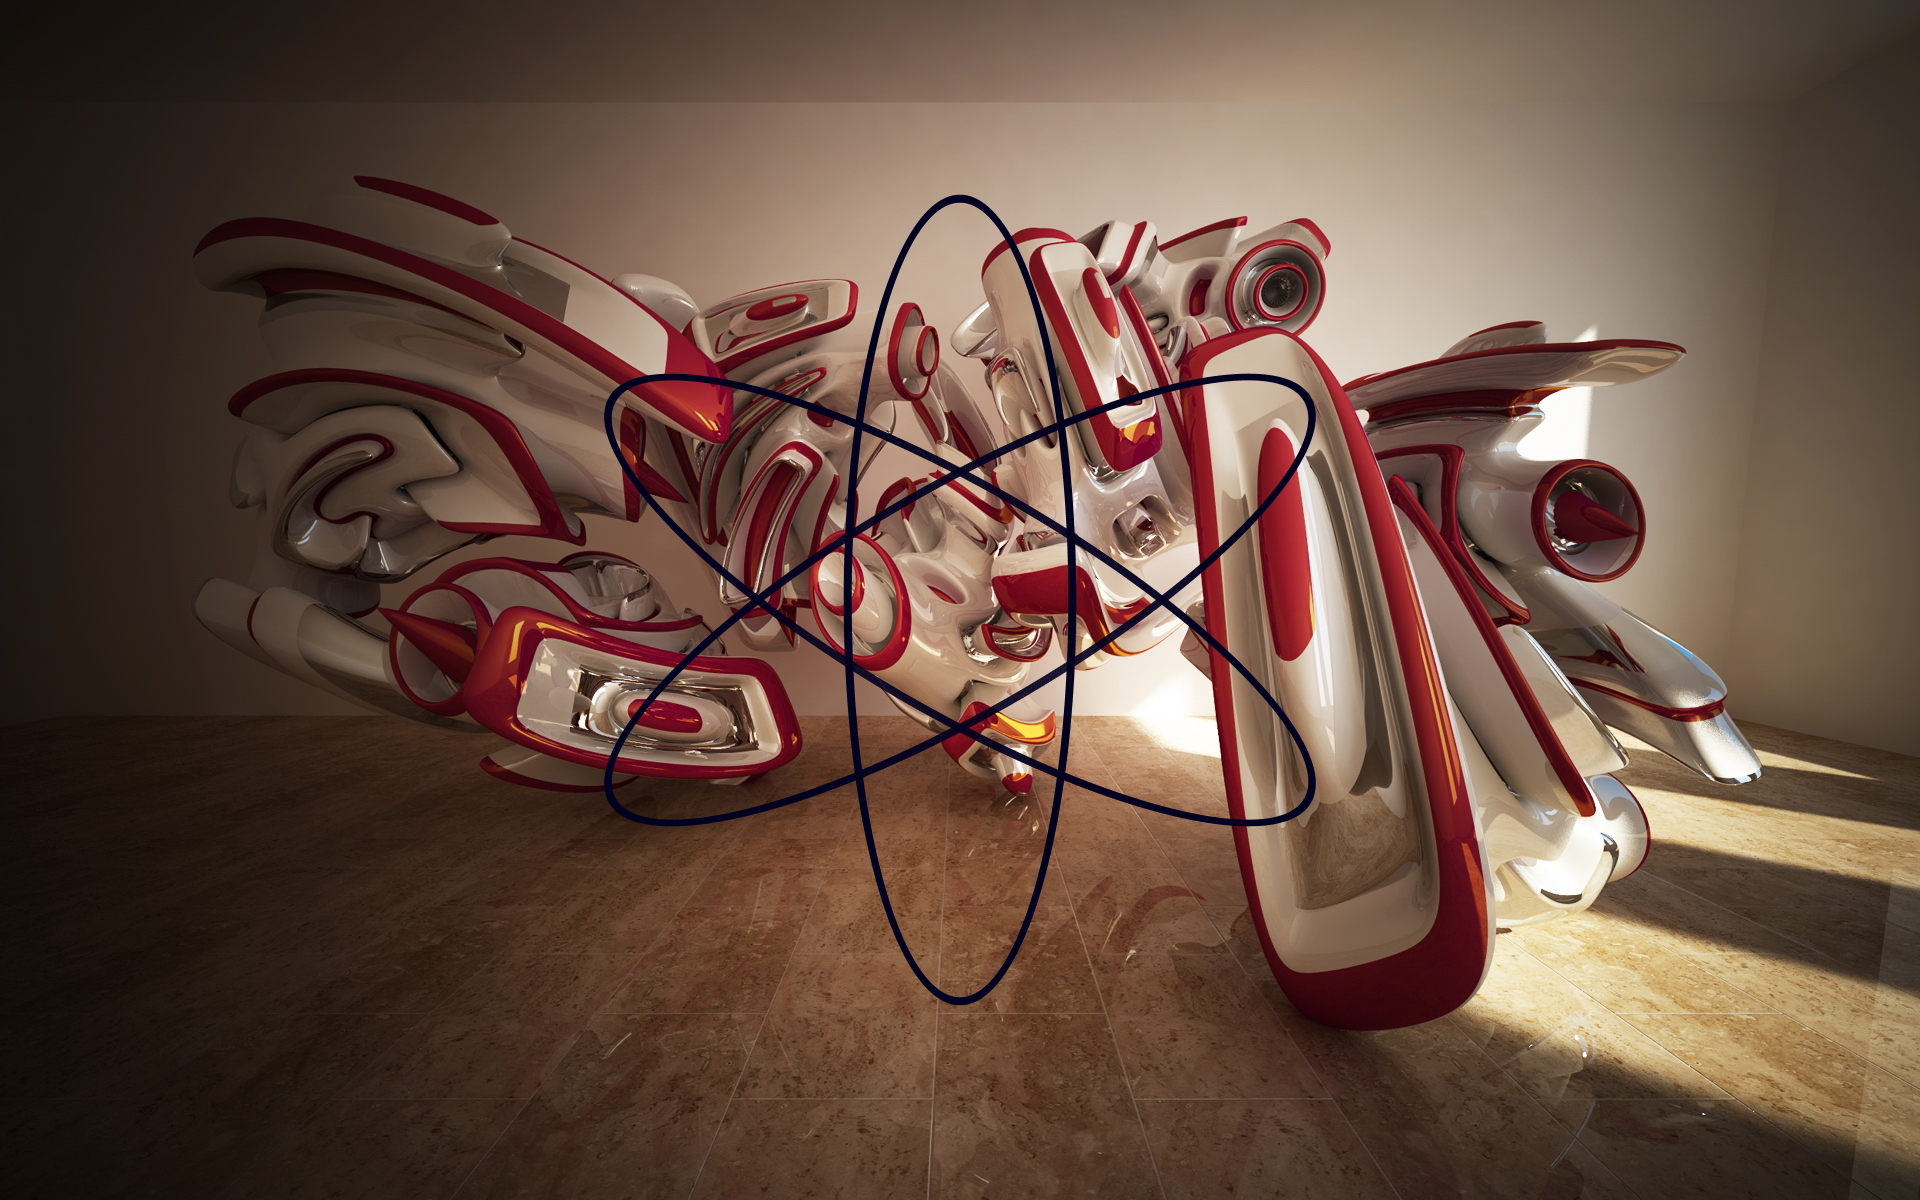
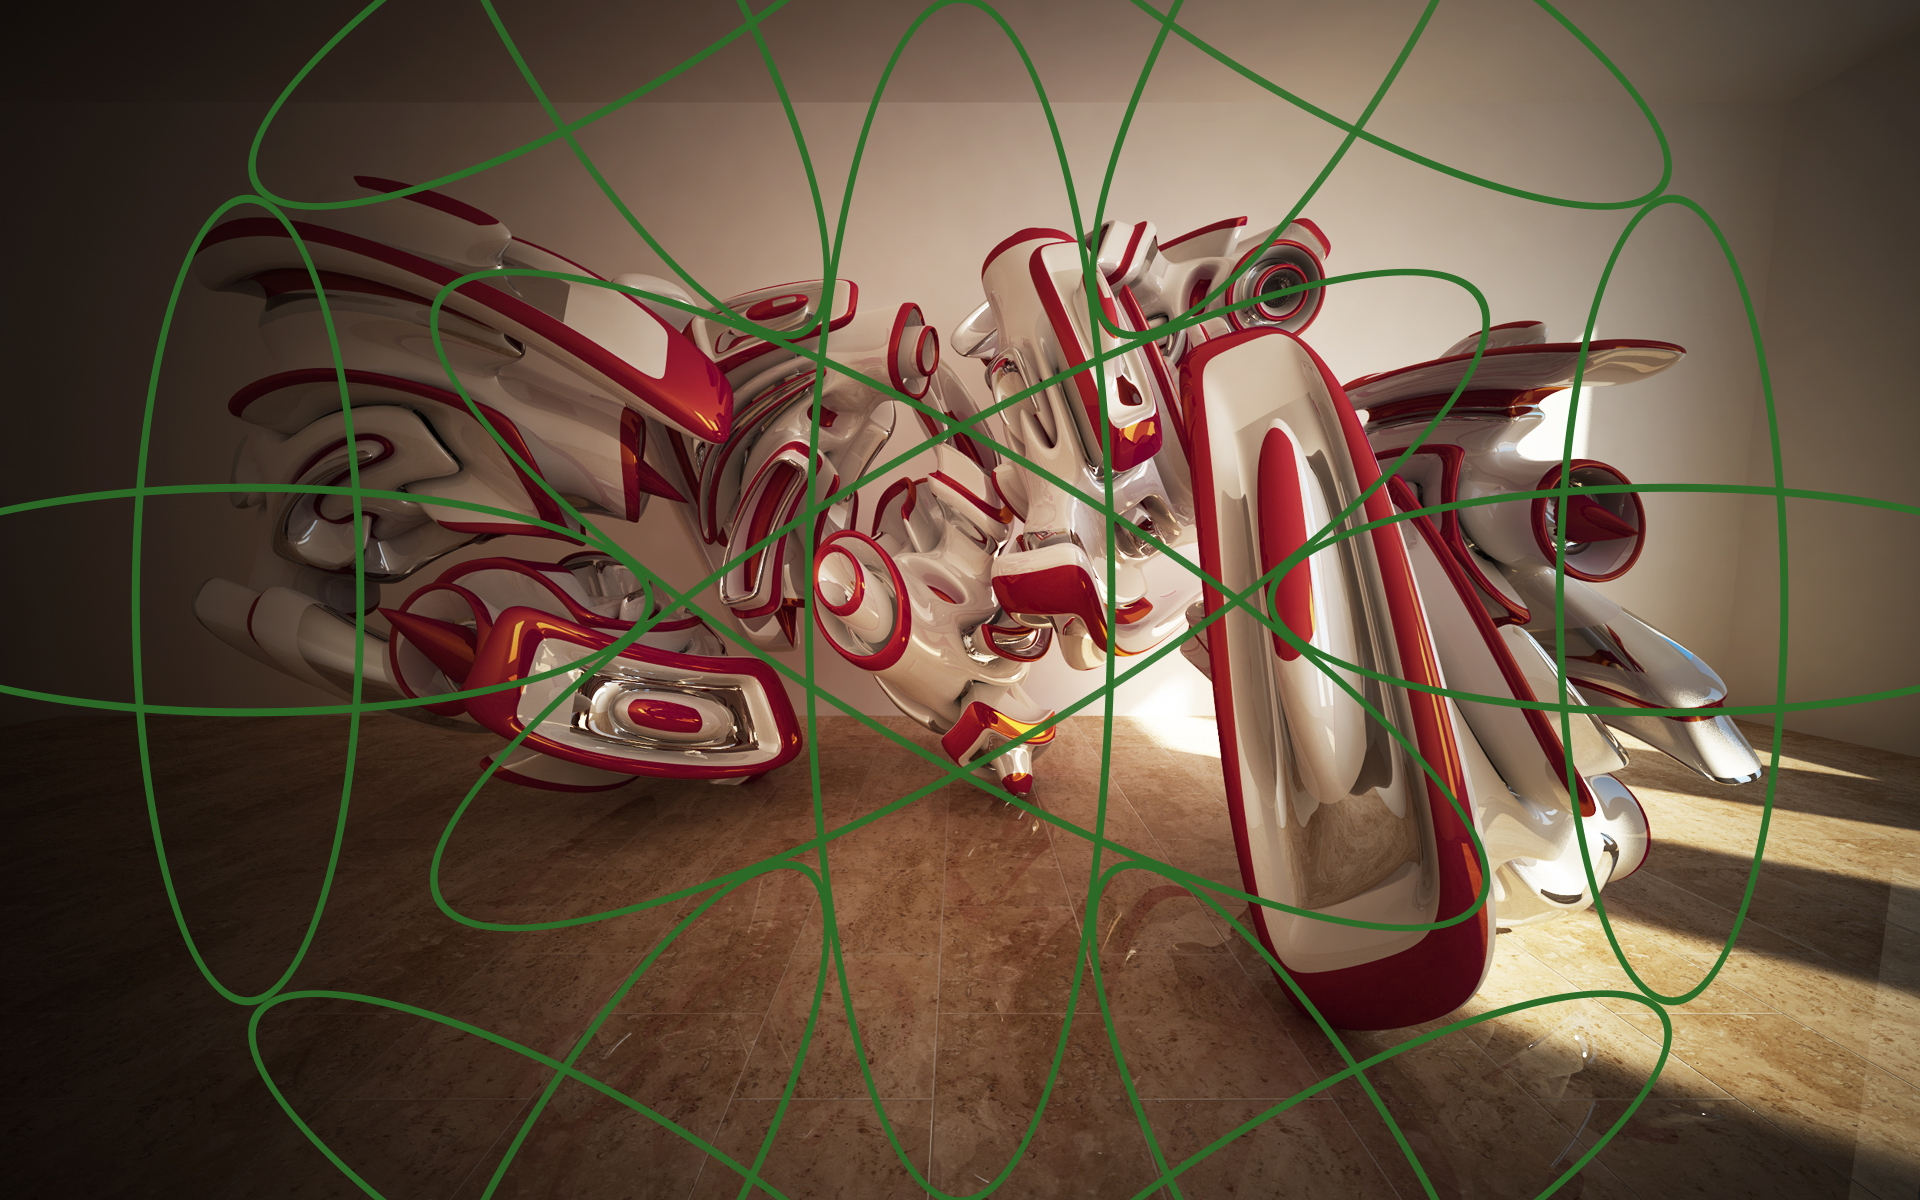
The demo of Ellipses with AA improved

diff --git a/Universe.Drawing.Tests/Program.cs b/Universe.Drawing.Tests/Program.cs
@@ -82,15 +82,32 @@ namespace Universe.Drawing.Tests
                 string nameDraft = "Ellipse-Draft-AA" + aaScale + "-" + w + "W.bmp";
                 using (Graphics2 g = new Graphics2(bmp, aaScale))
                 {
-                    g
-                        .Reset()
-                        .SetCenter(bmp.Width/2f, bmp.Height/2f)
-                        .SetRotation(30)
-                        .DrawEllipse(0, 0, 400, 111, 0, 360, new Color2(2, 0, 32), w)
-                        .SetRotation(90)
-                        .DrawEllipse(0, 0, 400, 111, 0, 360, new Color2(2, 0, 32), w)
-                        .SetRotation(150)
-                        .DrawEllipse(0, 0, 400, 111, 0, 360, new Color2(2, 0, 32), w);
+                    const int r = 400;
+                    var xCenter = bmp.Width / 2f;
+                    var yCenter = bmp.Height / 2f;
+                    for (int rotation = 30; rotation <= 150; rotation += 60)
+                    {
+                        g.Reset()
+                            .SetCenter(xCenter, yCenter)
+                            .SetRotation(rotation)
+                            .DrawEllipse(0, 0, 600, 150, 0, 360, new Color2(43, 107, 39), w);
+                    }
+
+                    for (int angle = 0; angle < 360; angle += 60)
+                    {
+                        var localX = xCenter + 1.78f*r*Math.Cos(angle/360f*2f*Math.PI);
+                        var localY = yCenter + 1.78f*r*Math.Sin(angle/360f*2f*Math.PI);
+
+                        for (int rotation = 0; rotation <= 90; rotation += 90)
+                        {
+                            g.Reset()
+                                .SetCenter((float)localX, (float)localY)
+                                .SetRotation(rotation + angle)
+                                .DrawEllipse(0, 0, r, 111, 0, 360, new Color2(43, 107, 39), w);
+                        }
+
+                        
+                    }
 
                     using(FileStream fs = new FileStream(nameDraft, FileMode.Create, FileAccess.Write))
                         BitmapWriter.Write(g.WorkingBitmap, fs);
@@ -99,7 +116,7 @@ namespace Universe.Drawing.Tests
                 using (FileStream fs = new FileStream(name, FileMode.Create, FileAccess.Write))
                     BitmapWriter.Write(bmp, fs);
 
-                // return;
+                return;
 
             }
         }
